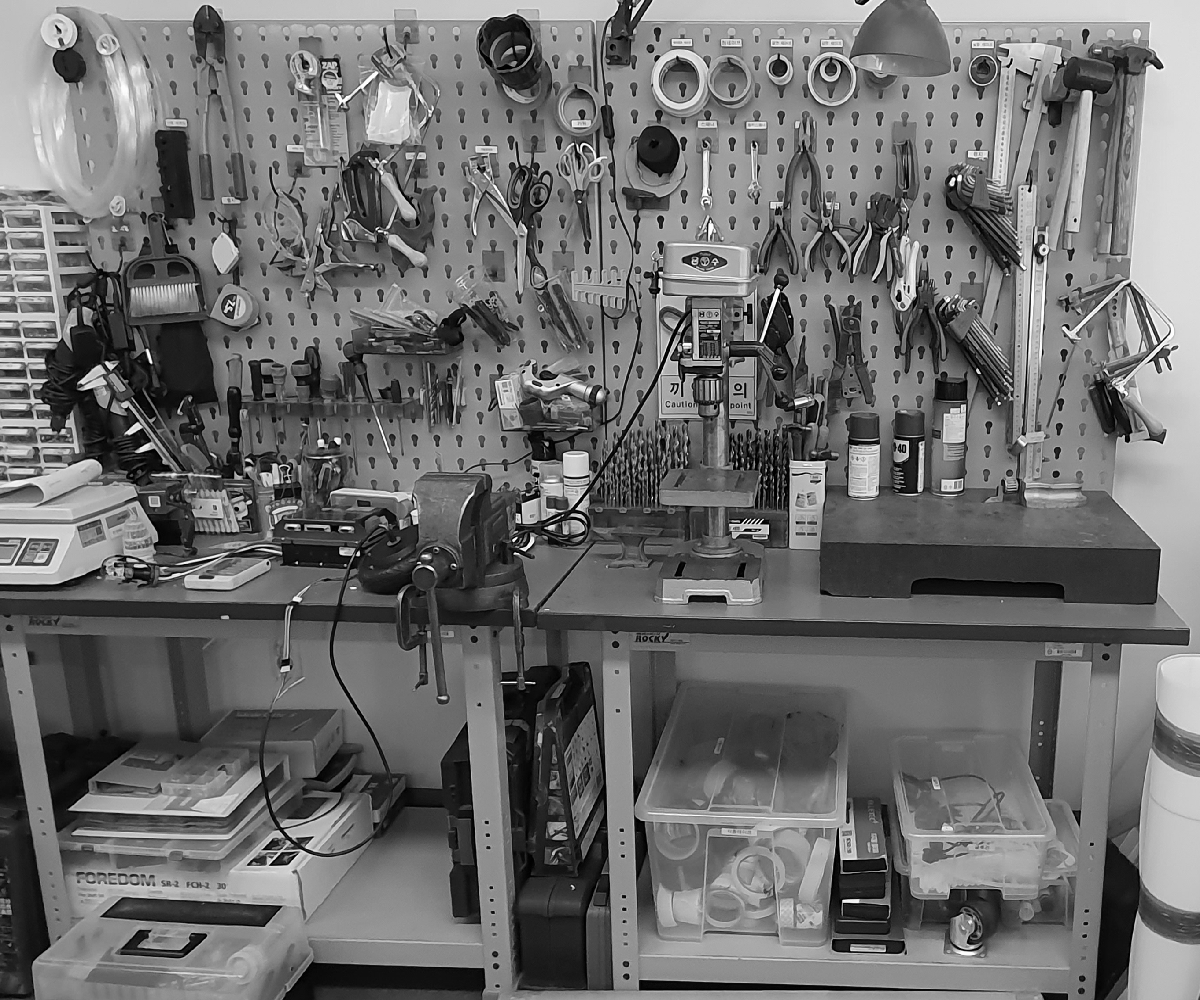
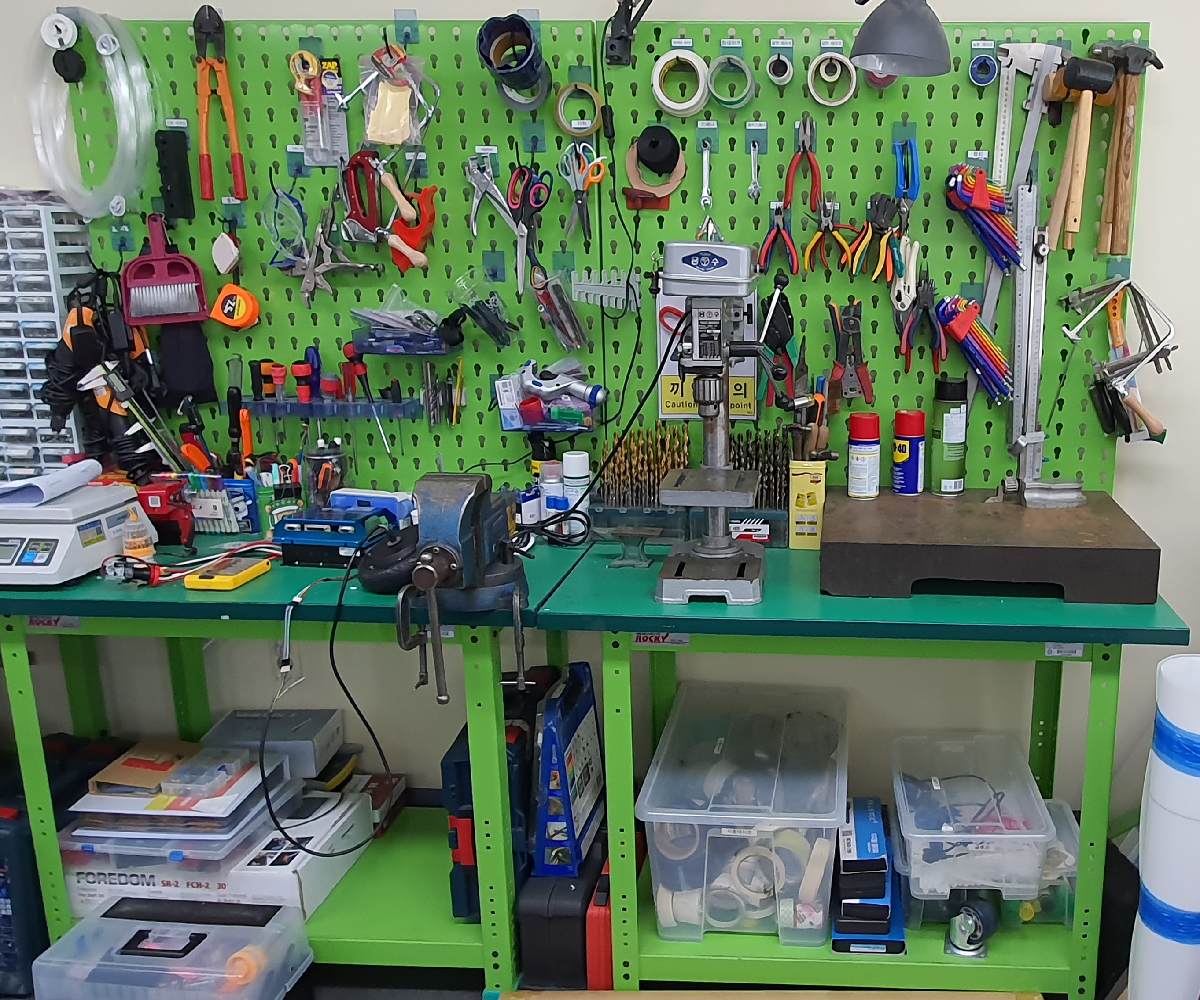
2023.01.25 ver_2

diff --git a/public/buttons/406_sector_button.css b/public/buttons/406_sector_button.css
@@ -41,7 +41,7 @@
     border: 0px;
     outline: none;
     transform: translate(0, 0);
-    filter : grayscale(1);
+    filter : grayscale(85%);
 }
 .sector_406_2{ /* 104 * 192 */   /* 479 * 288 */
     position: absolute;
@@ -52,7 +52,7 @@
     border: 0px;
     outline: none;
     transform: translate(0, 0);
-    filter : grayscale(1);
+    filter : grayscale(85%);
 }
 .sector_406_3{ /* 269 * 97 */   /* 314 * 488 */
     position: absolute;
@@ -63,7 +63,7 @@
     border: 0px;
     outline: none;
     transform: translate(0, 0);
-    filter : grayscale(1);
+    filter : grayscale(85%);
 }
 .sector_406_4{ /* 177 * 96 */   /* 129 * 488 */
     position: absolute;
@@ -74,7 +74,7 @@
     border: 0px;
     outline: none;
     transform: translate(0, 0);
-    filter : grayscale(1);
+    filter : grayscale(85%);
 }
 .sector_406_5{ /* 104 * 191 */   /* 16 * 393 */
     position: absolute;
@@ -85,7 +85,7 @@
     border: 0px;
     outline: none;
     transform: translate(0, 0);
-    filter : grayscale(1);
+    filter : grayscale(85%);
 }
 .sector_406_6{ /* 104 * 234 */   /* 16 * 141 */
     position: absolute;
@@ -96,7 +96,7 @@
     border: 0px;
     outline: none;
     transform: translate(0, 0);
-    filter : grayscale(1);
+    filter : grayscale(85%);
 }
 .sector_406_7{ /* 115 * 76 */   /* 129 * 67 */
     position: absolute;
@@ -107,7 +107,7 @@
     border: 0px;
     outline: none;
     transform: translate(0, 0);
-    filter : grayscale(1);
+    filter : grayscale(85%);
 }
 
 /*마우스 올려두면 색 원상복구*/

diff --git a/public/buttons/B05_sector_button.css b/public/buttons/B05_sector_button.css
@@ -77,7 +77,7 @@
     border: 0px;
     outline: none;
     transform: translate(0, 0);
-    filter : grayscale(1);
+    filter : grayscale(85%);
 }
 .sector_B05_2{
     position: absolute;
@@ -88,7 +88,7 @@
     border: 0px;
     outline: none;
     transform: translate(0, 0);
-    filter : grayscale(1);
+    filter : grayscale(85%);
 }
 .sector_B05_3{
     position: absolute;
@@ -99,7 +99,7 @@
     border: 0px;
     outline: none;
     transform: translate(0, 0);
-    filter : grayscale(1);
+    filter : grayscale(85%);
 }
 .sector_B05_4{
     position: absolute;
@@ -110,7 +110,7 @@
     border: 0px;
     outline: none;
     transform: translate(0, 0);
-    filter : grayscale(1);
+    filter : grayscale(85%);
 }
 .sector_B05_5{
     position: absolute;
@@ -121,7 +121,7 @@
     border: 0px;
     outline: none;
     transform: translate(0, 0);
-    filter : grayscale(1);
+    filter : grayscale(85%);
 }
 .sector_B05_6{
     position: absolute;
@@ -132,7 +132,7 @@
     border: 0px;
     outline: none;
     transform: translate(0, 0);
-    filter : grayscale(1);
+    filter : grayscale(85%);
 }
 .sector_B05_7{
     position: absolute;
@@ -143,7 +143,7 @@
     border: 0px;
     outline: none;
     transform: translate(0, 0);
-    filter : grayscale(1);
+    filter : grayscale(85%);
 }
 
 

diff --git a/public/test/css/list_box.css b/public/test/css/list_box.css
@@ -3,7 +3,7 @@
     width: 98%;
     border: 2px solid #58C245;
     padding:2px;
-    background: #B7ECA5;
+    background: #f1f8ef;
     position: relative;
     left: 50%;
     transform: translate(-50%,16vmin);

diff --git a/public/searching_bar/searching_bar.css b/public/searching_bar/searching_bar.css
@@ -52,7 +52,7 @@
     width: 86vmin;
     left: 50%;
     transform: translate(-50%, 0vmin);
-    background: #B7ECA5;
+    background: #58C245;
     padding: 1vmin;
     border-radius: 1vw;
 }

diff --git a/public/searching_bar/searching_bar_3.css b/public/searching_bar/searching_bar_3.css
@@ -55,7 +55,7 @@
     width: 86vmin;
     left: 50%;
     transform: translate(-50%, 0vmin);
-    background: #B7ECA5;
+    background: #58C245;
     padding: 1vmin;
     border-radius: 1vw;
 }
